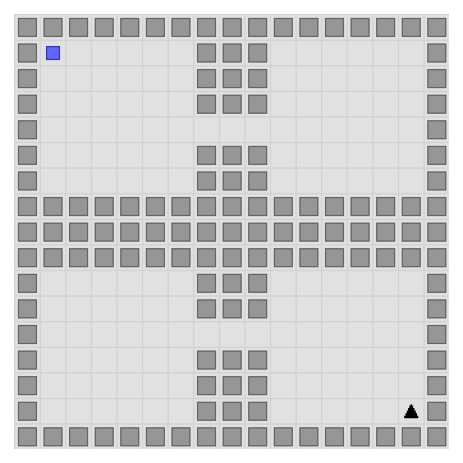
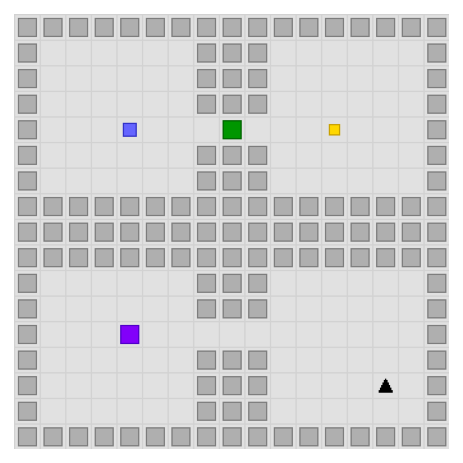
Add support for warp pads

diff --git a/neuronav/envs/grid_env.py b/neuronav/envs/grid_env.py
@@ -61,7 +61,13 @@ class GridEnv(Env):
             raise Exception("No valid OrientationType provided.")
         self.state_size *= self.orient_size
         self.agent_pos = [0, 0]
-        self.base_objects = {"rewards": {}, "markers": {}, "keys": [], "doors": []}
+        self.base_objects = {
+            "rewards": {},
+            "markers": {},
+            "keys": [],
+            "doors": [],
+            "warps": {},
+        }
         self.direction_map = np.array([[-1, 0], [0, 1], [1, 0], [0, -1], [0, 0]])
         self.done = False
         self.keys = 0
@@ -139,7 +145,7 @@ class GridEnv(Env):
                 shape=(
                     self.grid_size,
                     self.grid_size,
-                    5,
+                    6,
                 ),
             )
         elif obs_type == GridObsType.symbolic_window:
@@ -149,7 +155,7 @@ class GridEnv(Env):
                 shape=(
                     5,
                     5,
-                    5,
+                    6,
                 ),
             )
         else:
@@ -217,14 +223,16 @@ class GridEnv(Env):
             3: doors
             4: walls
         """
-        grid = np.zeros([self.grid_size, self.grid_size, 5])
+        grid = np.zeros([self.grid_size, self.grid_size, 6])
         grid[self.agent_pos[0], self.agent_pos[1], 0] = 1
-        for loc, reward in self.objects["rewards"].items():
+        for loc in self.objects["rewards"].keys():
             grid[loc[0], loc[1], 1] = 1
         for loc in self.objects["keys"]:
             grid[loc[0], loc[1], 2] = 1
         for loc in self.objects["doors"]:
             grid[loc[0], loc[1], 3] = 1
+        for loc in self.objects["warps"].keys():
+            grid[loc[0], loc[1], 5] = 1
         walls = self.render_walls()
         grid[:, :, 4] = walls
         return grid
@@ -242,7 +250,7 @@ class GridEnv(Env):
         # return a 5x5x5 tensor of the surrounding area
         # Pads the edges with walls if the agent is near the edge
         obs = self.symbolic_obs()
-        full_window = np.zeros([self.grid_size + 2, self.grid_size + 2, 5])
+        full_window = np.zeros([self.grid_size + 2, self.grid_size + 2, 6])
         full_window[1:-1, 1:-1, :] = obs
         full_window[0, :, 4] = 1
         full_window[:, 0, 4] = 1
@@ -338,6 +346,16 @@ class GridEnv(Env):
         for pos in self.objects["doors"]:
             fill_color = (0, 150, 0)
             border_color = (0, 100, 0)
+            start, end = self.get_square_edges(
+                pos[0], pos[1], block_size, block_size - 2
+            )
+            cv.rectangle(img, start, end, fill_color, -1)
+            cv.rectangle(img, start, end, border_color, block_border - 1)
+
+        # draw the warp locations. They are purple
+        for pos, target in self.objects["warps"].items():
+            fill_color = (130, 0, 250)
+            border_color = (80, 0, 200)
             start, end = self.get_square_edges(
                 pos[0], pos[1], block_size, block_size - 2
             )
@@ -611,4 +629,6 @@ class GridEnv(Env):
         if eval_pos in self.objects["keys"]:
             self.keys += 1
             self.objects["keys"].remove(eval_pos)
+        if eval_pos in self.objects["warps"]:
+            self.agent_pos = self.objects["warps"][eval_pos]
         return self.observation, reward, self.done, {}

diff --git a/neuronav/envs/grid_topographies.py b/neuronav/envs/grid_topographies.py
@@ -26,14 +26,21 @@ def four_rooms(grid_size: int):
 
 
 def four_rooms_split(grid_size: int):
-    agent_start = [grid_size - 2, grid_size - 2]
-    objects = {"rewards": {(1, 1): 1.0}, "markers": {}}
     mid = int(grid_size // 2)
     earl_mid = int(mid // 2)
     if grid_size == 11:
         late_mid = mid + earl_mid + 1
     else:
         late_mid = mid + earl_mid
+
+    agent_start = [grid_size - 3, grid_size - 3]
+    objects = {
+        "rewards": {(earl_mid, earl_mid): 1.0},
+        "markers": {},
+        "keys": [(earl_mid, late_mid)],
+        "doors": [(earl_mid, mid)],
+        "warps": {(late_mid, earl_mid): (earl_mid + 1, late_mid)},
+    }
     blocks_a = [[mid, i] for i in range(grid_size)]
     blocks_b = [[i, mid] for i in range(grid_size)]
     blocks_c = [[mid - 1, i] for i in range(grid_size)]

diff --git a/neuronav/envs/README.md b/neuronav/envs/README.md
@@ -57,8 +57,8 @@ To add your own, edit [grid_env.py](./grid_env.py).
 | visual | Function-Approx | `[110, 110, 3]` | `[110, 110, 3` | A 3D tensor corresponding to the RGB image of the environment. |
 | images | Function-Approx | `[32, 32, 3]` | `[32, 32, 3` | A 3D tensor corresponding to a unique CIFAR10 image per state. |
 | window | Function-Approx | `[64, 64, 3]` | `[64, 64, 3]` | A 3D tensor corresponding to the 5x5 local window around the agent. |
-| symbolic | Function-Approx | `[n, n, 5]` | `[n, n, 5]` | A 5D tensor corresponding to a symbolic representation of the environment state.
-| symbolic_window | Function-Approx | `[5, 5, 5]` | `[5, 5, 5]` | A 5D tensor corresponding to a symbolic representation of the environment state.
+| symbolic | Function-Approx | `[n, n, 6]` | `[n, n, 6]` | A 5D tensor corresponding to a symbolic representation of the environment state.
+| symbolic_window | Function-Approx | `[5, 5, 6]` | `[5, 5, 6]` | A 5D tensor corresponding to a symbolic representation of the environment state.
 
 * Where `n` is the length of the grid.
 
